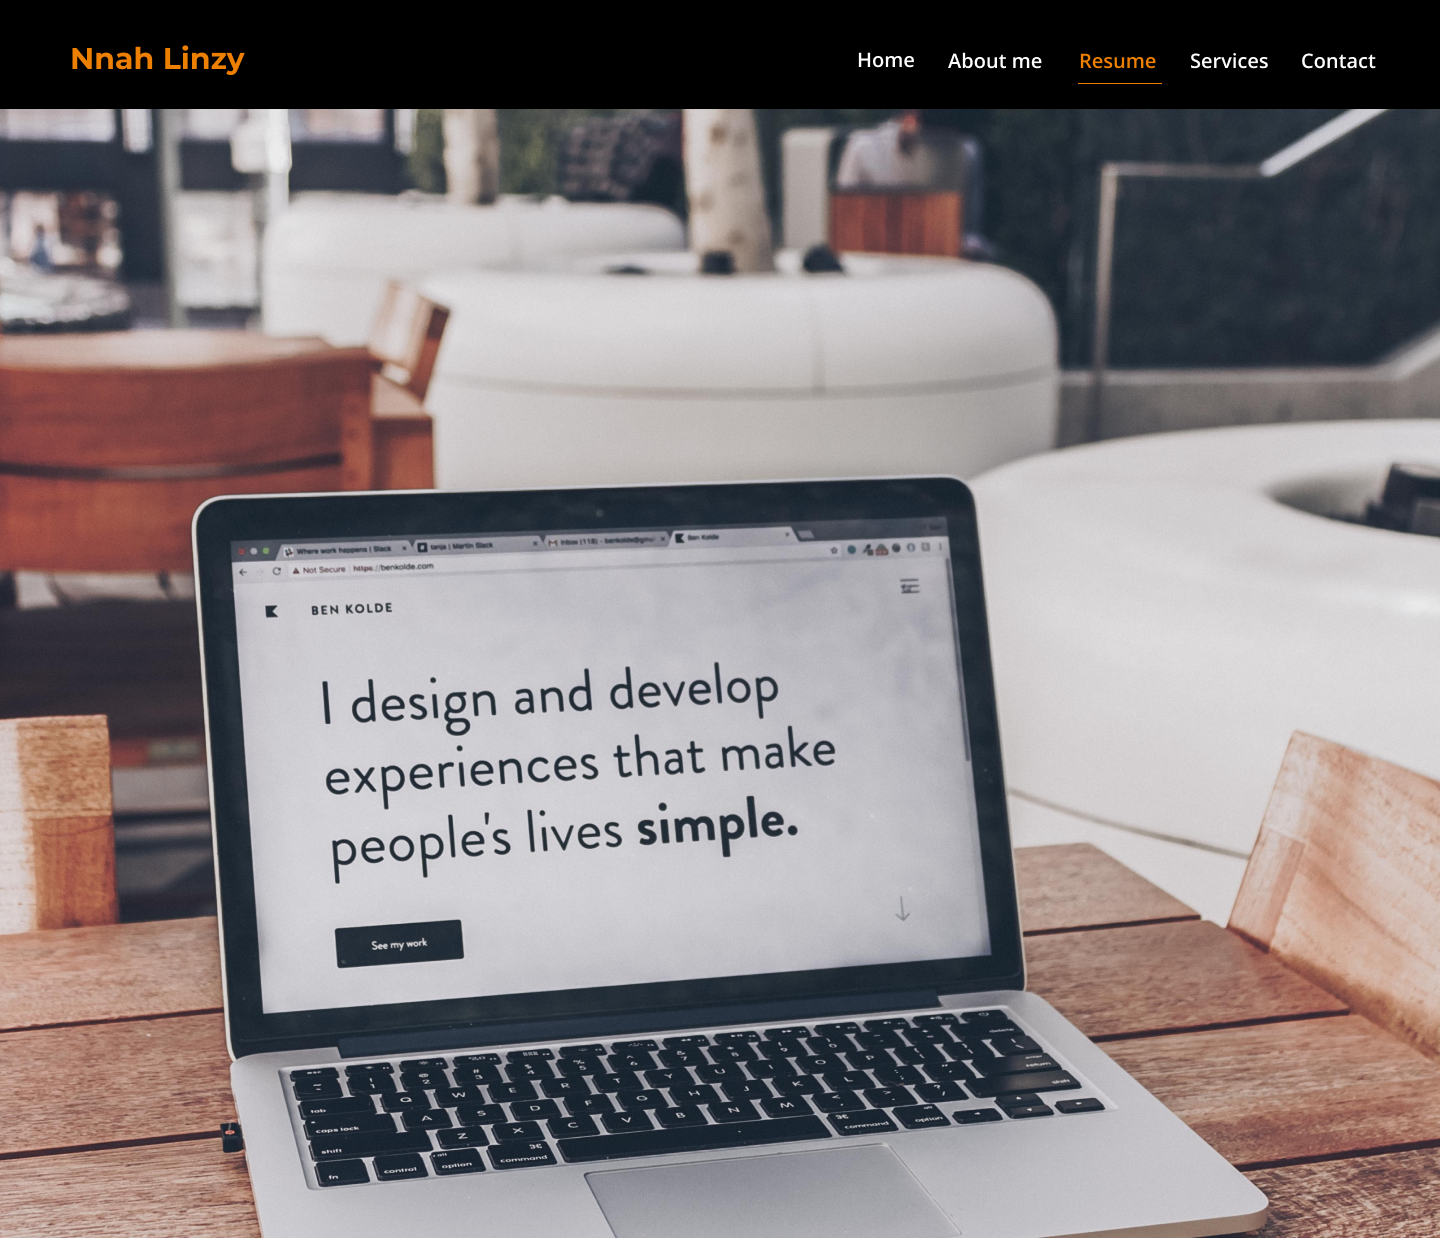
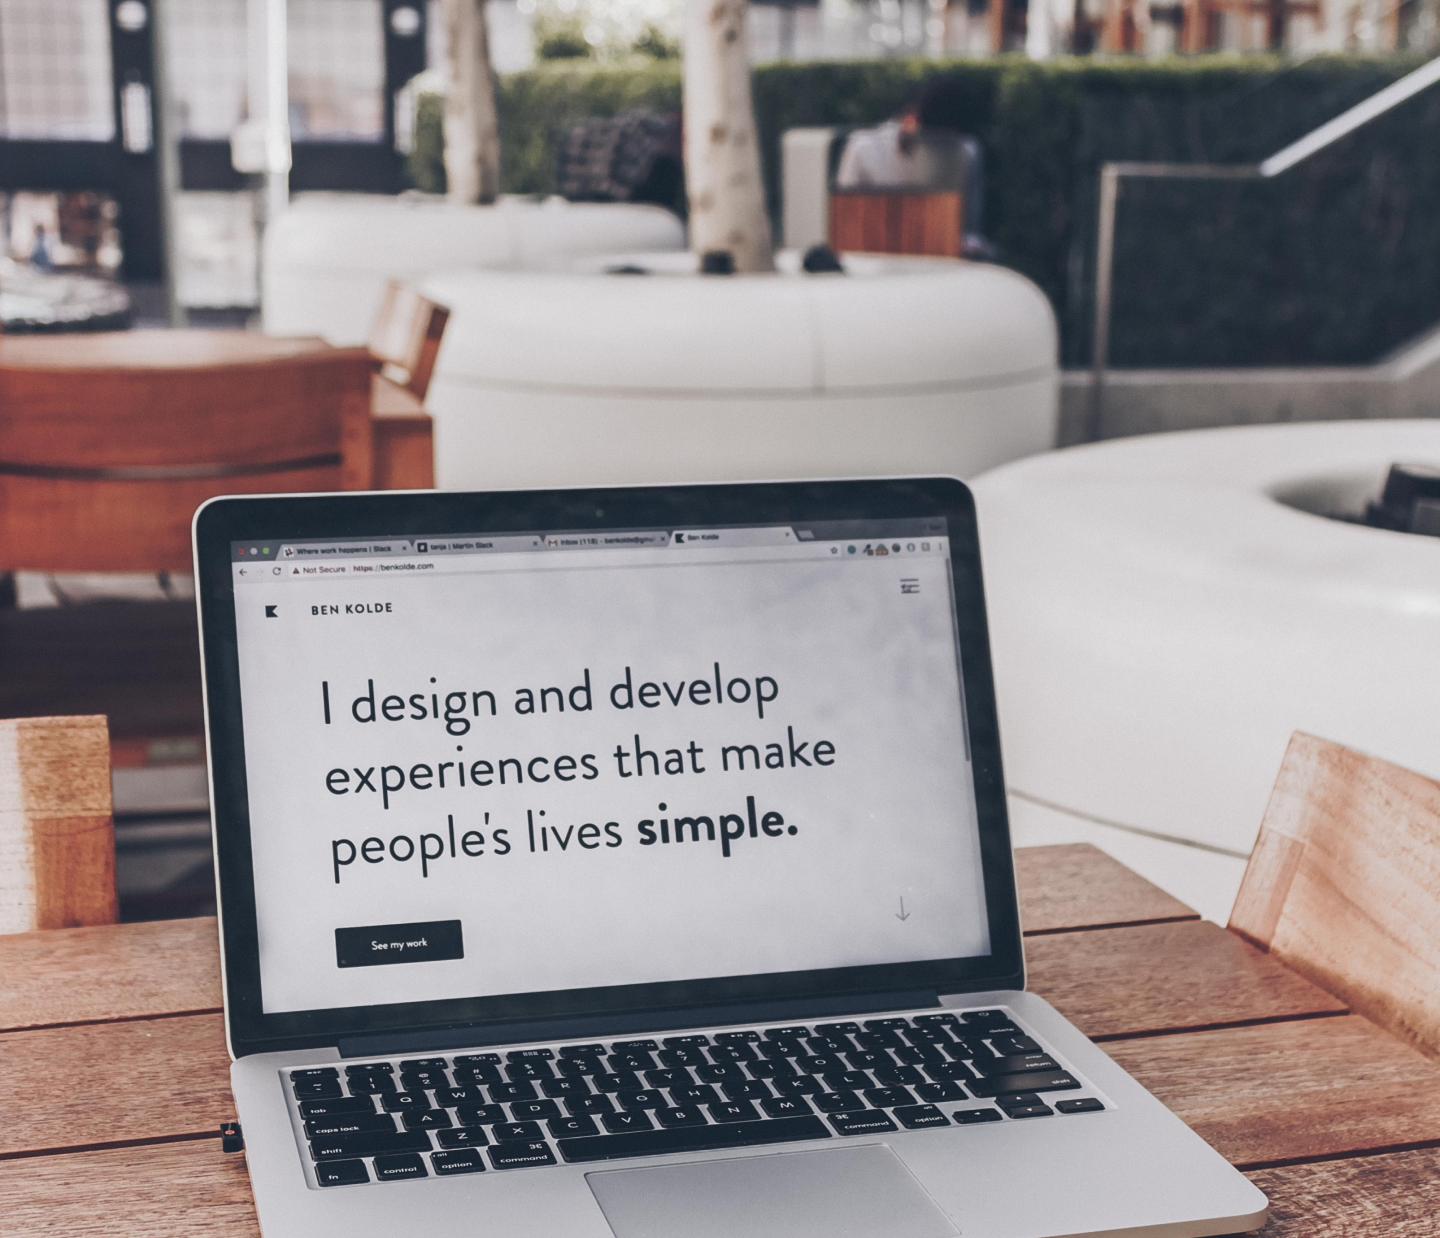
updates

Changed region(s): [[0.0, 0.0, 1.0, 0.0921]]

diff --git a/src/views/ResumeView.vue b/src/views/ResumeView.vue
@@ -5,19 +5,20 @@ import EducationComponent from '@/components/Education.vue'
 import Footer from '@/components/Footer.vue';
 
 const education = ref([
-    { name: 'LEVEL 6 DIPLOMA IN COMPUTING AND INFORMATION SYSTEMS', year: '2022 - 2023' },
-    { name: 'LEVEL 5 DIPLOMA IN COMPUTING AND INFORMATION SYSTEMS', year: '2021 - 2022' },
-    { name: 'LEVEL 4 DIPLOMA IN COMPUTING AND INFORMATION SYSTEMS', year: '2020 - 2021' },
+    { name: 'LEVEL 6 DIPLOMA IN COMPUTING AND INFORMATION SYSTEMS', year: '2022 - 2023', place: 'London Institute of InfoTech & Professional Training', qualification: 'ABMA QUALIFICATIONS' },
+    { name: 'LEVEL 5 DIPLOMA IN COMPUTING AND INFORMATION SYSTEMS', year: '2021 - 2022', place: 'London Institute of InfoTech & Professional Training', qualification: 'ABMA QUALIFICATIONS' },
+    { name: 'LEVEL 4 DIPLOMA IN COMPUTING AND INFORMATION SYSTEMS', year: '2020 - 2021', place: 'London Institute of InfoTech & Professional Training', qualification: 'ABMA QUALIFICATIONS' },
+    { name: 'GCE ADVANCED LEVEL (A Levels)', year: '2019', place: 'Goverment High Schol Bonadikombo (GHS)', qualification: ''},
+    { name: 'GCE ORDINARY LEVEL (O Levels)', year: '2017', place: 'Goverment High Schol Bonadikombo (GHS)', qualification: ''}
 ]);
 
 </script>
 <template>
-    <div class="relative">
-        <header :style="{ backgroundImage: `url(${headerBg})` }" class="min-h-[70vh] md:min-h-[60vh] bg-fixed bg-cover bg-center bg-no-repeat">
-        </header>
-        <div class="absolute top-2 w-full">
+    <div :style="{ backgroundImage: `url(${headerBg})` }" class="min-h-[100vh] md:min-h-[100vh] overflow-auto bg-cover bg-scroll bg-center bg-no-repeat relative">
+        
+        <div class="mt-3 w-full">
             <div class="px-3 md:px-36">
-                <section class="bg-black bg-opacity-80 text-white w-full py-3 px-5 rounded-lg">
+                <section class="bg-black bg-opacity-80 text-white w-full py-3 px-5 rounded-lg mb-4">
                     <div class="flex flex-col justify-center items-center">
                         <h1 class="text-primary font-bold text-2xl text-center uppercase">Resume</h1>
                         <hr class="text-primary bg-primary h-1 w-10 text-center">
@@ -48,7 +49,7 @@ const education = ref([
                                 <h1 class="text-primary font-bold text-xl uppercase">Education</h1>
                                 <div class="border-l-2 border-l-primary pl-5">
                                     <EducationComponent v-for="edu in education" :key="edu.name" :name="edu.name"
-                                        :year="edu.year" />
+                                        :year="edu.year" :place="edu.place" :qualification="edu.qualification" />
                                 </div>
                             </div>
                         </div>
@@ -115,10 +116,10 @@ const education = ref([
                             </div>
                         </div>
                     </div>
+                    <div class="flex justify-center my-3">
+                        <a href="https://drive.google.com/file/d/1YBieTVAK0RNnMSQYUTF8vN-p3gFr0z3O/view?usp=sharing" target="_blank" class="mt-2 inline-block bg-primary text-sm text-white font-bold py-2 px-3 rounded-md hover:bg-white hover:text-primary transition-colors duration-500 ease-in-out">Download Resume</a>
+                    </div>
                 </section>
-            </div>
-            <div class="mt-10">
-                <Footer class="w-full" style="padding: 25px;" />
             </div>
         </div>
     </div>

diff --git a/src/components/Skills.vue b/src/components/Skills.vue
@@ -20,7 +20,7 @@ const skills = ref([
     <div :style="{ backgroundImage: `linear-gradient( rgba(0, 0, 0, 0.2), rgba(0, 0, 0, 0.5) ), url(${skillbg})` }" class="skills bg-no-repeat bg-cover py-10 px-10 text-white">
         <h1 class="text-primary text-center text-2xl uppercase font-bold underline underline-offset-8">Skills</h1>
         <p class="mt-5 text-center">
-            These skills are some of my top skills I have acquired and they will help give you a brief overview of the many ways I can use them to make your ideas become reality and just with the right budget. 
+            These are some of the top skills I have acquired and they will help give you a brief overview of the many ways I can use them to make your ideas become reality and just with the right budget
         </p>
 
         <div class="grid grid-cols-1 md:grid-cols-2 gap-5 mt-10">

diff --git a/src/views/HomeView.vue b/src/views/HomeView.vue
@@ -15,7 +15,7 @@ import lineImg from '@/assets/images/line6.svg'
       </div>
       <img :src="lineImg" alt="" class="mt-4">
       <p class="text-white mt-2 font-montserrat font-semibold text-xl">
-        I’m a professional Graphics / UI UX Designer with a zeal to transform ideas to reality. Test my skills and find out.
+        I’m a professional Graphics / UI UX Designer with a zeal to transform ideas into reality. Test my skills and find out.
       </p>
       <div class="w-full mt-10 flex flex-wrap gap-5 font-semibold">
         <router-link to="/" class="text-primary">Home</router-link>

diff --git a/src/views/AboutView.vue b/src/views/AboutView.vue
@@ -38,7 +38,7 @@ import TestimonialsComponent from '@/components/Testimonials.vue'
               <h1>
                 <span class="text-primary"><i class="fa-solid fa-greater-than fa-lg"></i> </span>
                 <span class="font-bold"> Degree: </span>
-                <span>Bachelor's Degree</span>
+                <span>Bachelor's degree in Computing and Information Systems</span>
               </h1>
             </div>
 

diff --git a/src/App.vue b/src/App.vue
@@ -17,7 +17,7 @@ import Footer from './components/Footer.vue';
       </router-view>
     </div>
 
-    <Footer v-if="$route.name !== 'home' && $route.name !== 'resume' && $route.name !== 'services'" class="w-full" />
+    <Footer />
 
   </div>
 </template>
